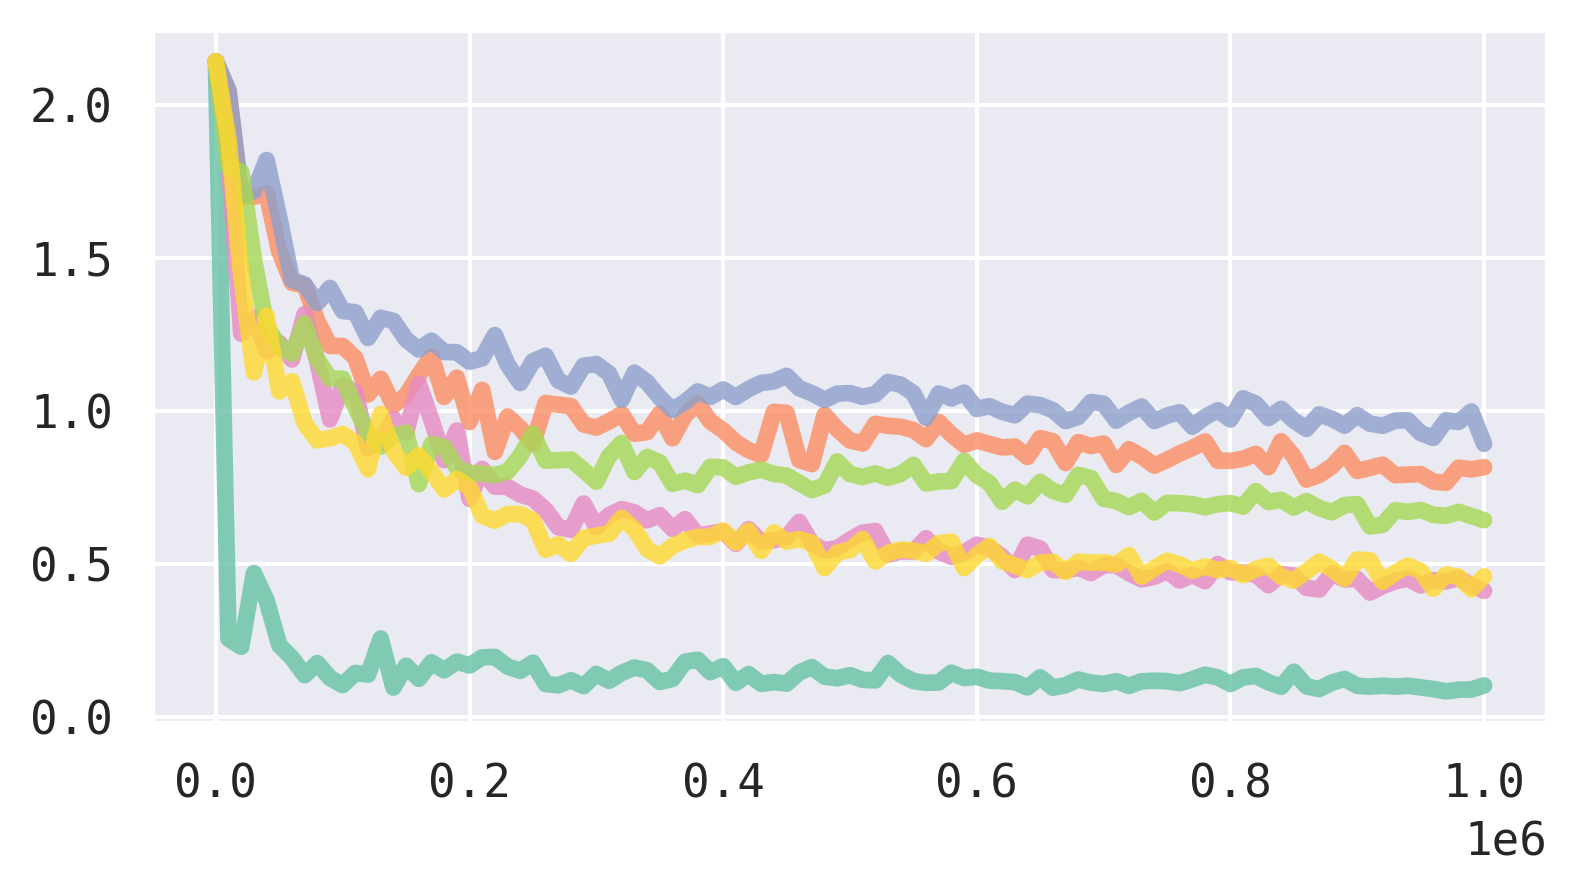
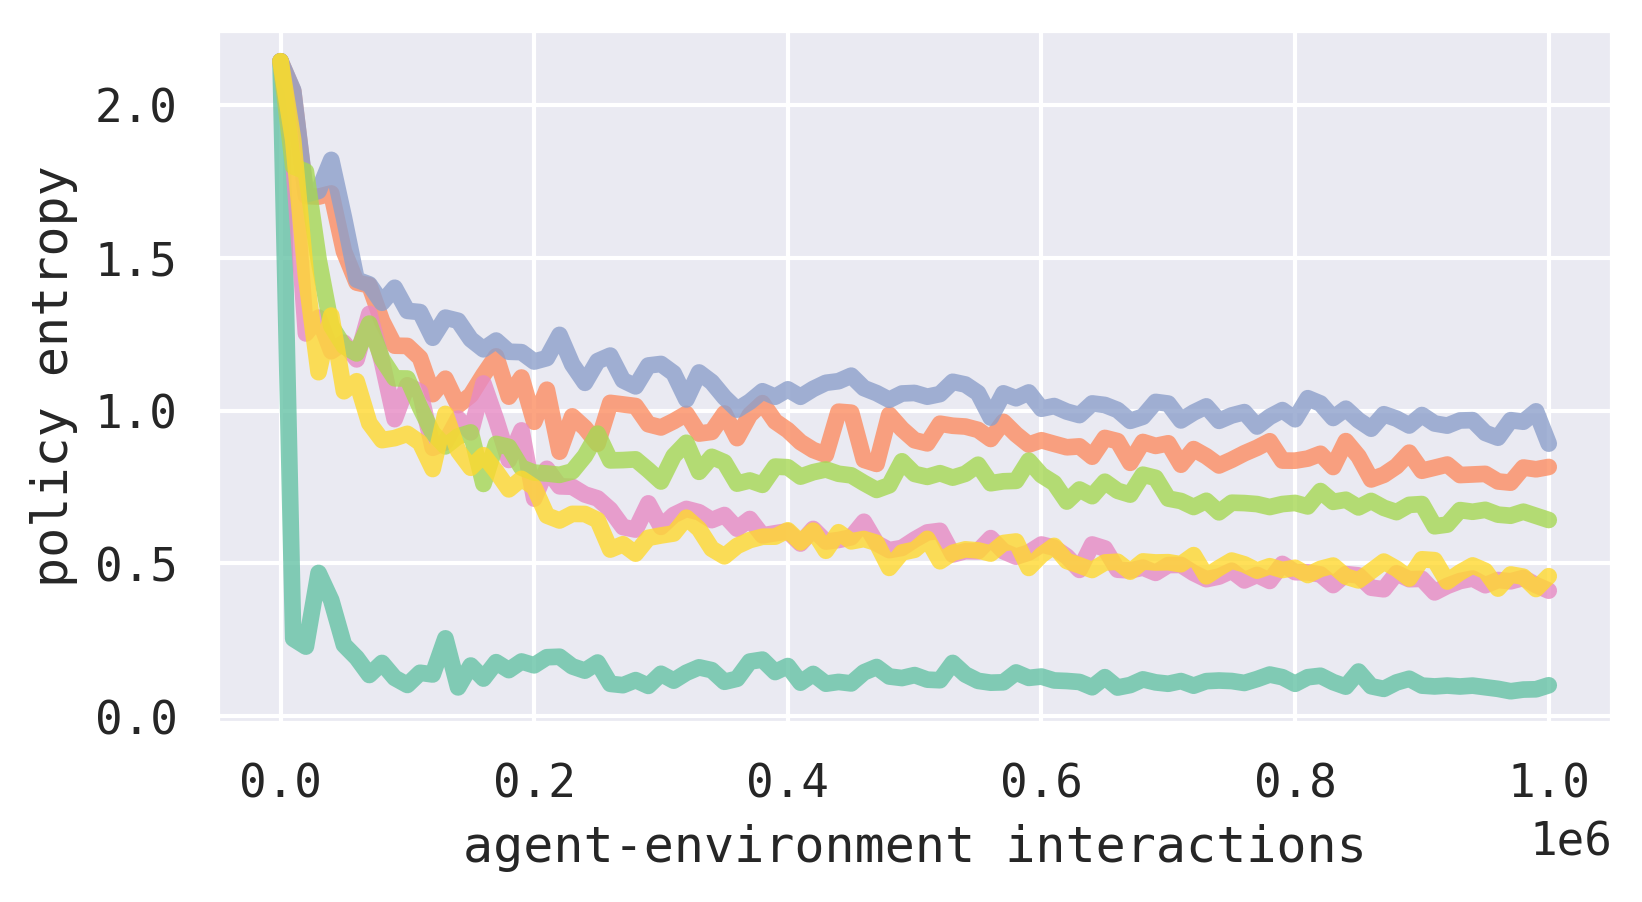
add figure axis labels

diff --git a/visualization.py b/visualization.py
@@ -40,6 +40,8 @@ class Visualization:
         for agent, loss in self.logs['loss'].items():
             ax.plot(self.logs['steps'], loss, linewidth=4, alpha=.8, label=agent)
         ##ax.set_title('Categorical crossentropy loss')
+        ax.set_xlabel('agent-environment interactions')
+        ax.set_ylabel('policy loss')
         if legend:
             ax.legend(ncol=1, loc='upper left', bbox_to_anchor=(1., 1.))
         plt.savefig(f'{self.savedir}/loss.png', dpi=300, bbox_inches='tight')
@@ -51,6 +53,8 @@ class Visualization:
         for agent, acc in self.logs['accuracy'].items():
             ax.plot(self.logs['steps'], acc, linewidth=4, alpha=.8, label=agent)
         ##ax.set_title('Accuracy')
+        ax.set_xlabel('agent-environment interactions')
+        ax.set_ylabel('policy accuracy')
         if legend:
             ax.legend(ncol=1, loc='upper left', bbox_to_anchor=(1., 1.))
         plt.savefig(f'{self.savedir}/accuracy.png', dpi=300, bbox_inches='tight')
@@ -62,6 +66,8 @@ class Visualization:
         for agent, ent in self.logs['entropy'].items():
             ax.plot(self.logs['steps'], ent, linewidth=4, alpha=.8, label=agent)
         ##ax.set_title('Policy entropy')
+        ax.set_xlabel('agent-environment interactions')
+        ax.set_ylabel('policy entropy')
         if legend:
             ax.legend(ncol=1, loc='upper left', bbox_to_anchor=(1., 1.))
         plt.savefig(f'{self.savedir}/entropy.png', dpi=300, bbox_inches='tight')
@@ -73,6 +79,8 @@ class Visualization:
         for agent, ent in self.logs['reward'].items():
             ax.plot(self.logs['steps'], ent, linewidth=4, alpha=.8, label=agent)
         ##ax.set_title('Policy reward')
+        ax.set_xlabel('agent-environment interactions')
+        ax.set_ylabel('agent reward')
         if legend:
             ax.legend(ncol=1, loc='upper left', bbox_to_anchor=(1., 1.))
         plt.savefig(f'{self.savedir}/reward.png', dpi=300, bbox_inches='tight')
@@ -100,6 +108,8 @@ class Visualization:
             plt.xticks(np.linspace(0, len(df)-1, 11), rotation=30, ha='right')
             ax.set_ylim(0, 1)
             ##ax.set_title(f'{agent}-agent histogram')
+            ax.set_xlabel('agent-environment interactions')
+            ax.set_ylabel('action histogram')
             plt.tight_layout()
             plt.savefig(f'{self.savedir}/hist_{agent}.png', dpi=300)
             plt.show() if show else plt.close()
